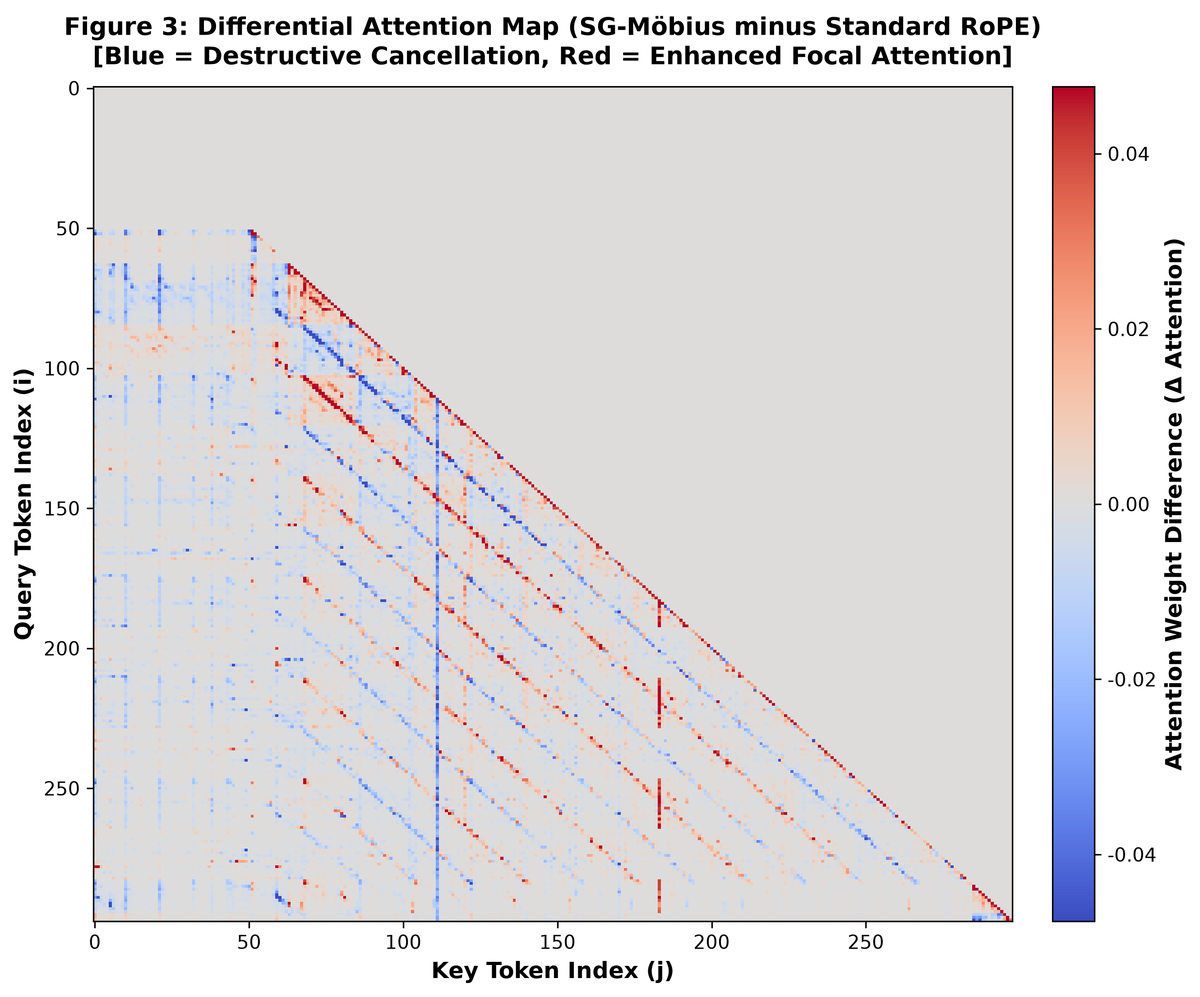
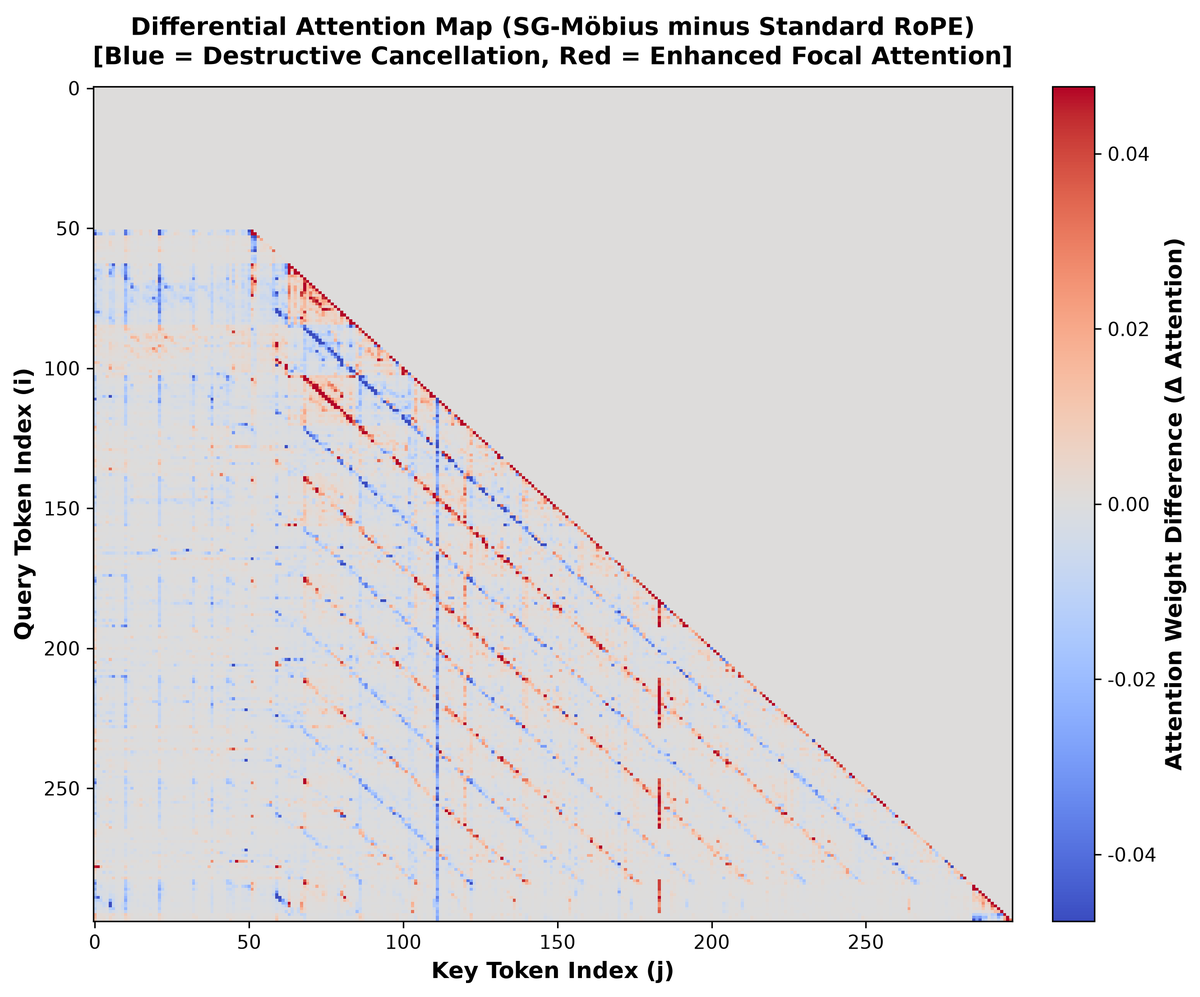
fix(theory): correct orthogonal rotation coupling in Corollary 4, implement tau_gate in detector, re-export figures, and sync 404 tests

Changed region(s): [[0.0624, 0.0, 0.8737, 0.0624]]

diff --git a/paper/main.tex b/paper/main.tex
@@ -288,16 +288,17 @@ Inverting the ratio yields the decoy odds scaling factor $\exp(-2 A_{ij}^{\text{
 
 \begin{corollary}[Prefix Partition Function Contraction and Normalized Probability Mass Siphoning]
 \label{cor:partition_siphoning}
-Let $t_2$ be the narrative reversal position, such that for all antecedent tokens $l < t_2$, the relative phase shift satisfies $\Delta\Phi_{l \to i} \in [\pi - \delta, \pi + \delta]$ with perturbation tolerance $\delta \in [0, \pi/6]$. Let $Z_i^{\mathrm{std}} = \sum_{l \le i} \exp(A_{il}^{\mathrm{std}})$ and $\tilde{Z}_i = \sum_{l \le i} \exp(\tilde{A}_{il})$ denote the attention head partition functions before and after SG-M\"obius modulation.
-If evolution-subspace logits satisfy $A_{il}^{\mathrm{mob}} > 0$ across the superseded prefix interval $\mathcal{P} \triangleq \{l \mid l < t_2\}$, then the partition function contracts strictly:
+Let $t_2$ be the narrative reversal position, such that for all superseded antecedent prefix tokens $l \in \mathcal{P} \triangleq \{l \mid l < t_2\}$, the relative phase shift under nominal phase-locking satisfies $\Delta\Phi_{l \to i} \equiv \pi \pmod{2\pi}$, while operative directives $k \ge t_2$ remain in phase ($\Delta\Phi_{k \to i} \equiv 0 \pmod{2\pi}$). Let $Z_i^{\mathrm{std}} = \sum_{l \le i} \exp(A_{il}^{\mathrm{std}})$ and $\tilde{Z}_i = \sum_{l \le i} \exp(\tilde{A}_{il})$ denote the attention head partition functions before and after SG-M\"obius modulation.
+If evolution-subspace logits satisfy $A_{il}^{\mathrm{mob}} > 0$ across the superseded prefix interval $\mathcal{P}$, then each prefix logit transforms as $\tilde{A}_{il} = A_{il}^{\mathrm{std}} - 2A_{il}^{\mathrm{mob}} < A_{il}^{\mathrm{std}}$, and the partition function contracts strictly:
 \begin{equation}
-\tilde{Z}_i = Z_i^{\mathrm{std}} - \sum_{l \in \mathcal{P}} \exp(A_{il}^{\mathrm{std}})\left(1 - \exp\big(-2\cos\delta \cdot A_{il}^{\mathrm{mob}}\big)\right) \triangleq Z_i^{\mathrm{std}} - \Delta Z_{\mathcal{P}} < Z_i^{\mathrm{std}}
+\tilde{Z}_i = Z_i^{\mathrm{std}} - \sum_{l \in \mathcal{P}} \exp(A_{il}^{\mathrm{std}})\left(1 - \exp\big(-2 A_{il}^{\mathrm{mob}}\big)\right) \triangleq Z_i^{\mathrm{std}} - \Delta Z_{\mathcal{P}} < Z_i^{\mathrm{std}}
 \end{equation}
-Consequently, the absolute Softmax attention weight allocated to the overriding target directive $k \ge t_2$ amplifies strictly above its baseline level:
+Consequently, for any operative target token $k \ge t_2$ (whose unmodulated logit satisfies $\tilde{A}_{ik} = A_{ik}^{\mathrm{std}}$), its normalized Softmax attention probability $P_{\mathrm{mob}}(k \mid i) \triangleq \exp(\tilde{A}_{ik})/\tilde{Z}_i$ strictly amplifies over its baseline $P_{\mathrm{std}}(k \mid i)$:
 \begin{equation}
-\tilde{A}_{ik} = \frac{\exp(A_{ik}^{\mathrm{std}})}{Z_i^{\mathrm{std}} - \Delta Z_{\mathcal{P}}} = A_{ik}^{\mathrm{std}} \cdot \left(\frac{1}{1 - \frac{\Delta Z_{\mathcal{P}}}{Z_i^{\mathrm{std}}}}\right) > A_{ik}^{\mathrm{std}}
+P_{\mathrm{mob}}(k \mid i) = \frac{\exp(A_{ik}^{\mathrm{std}})}{Z_i^{\mathrm{std}} - \Delta Z_{\mathcal{P}}} = P_{\mathrm{std}}(k \mid i) \cdot \left(\frac{1}{1 - \frac{\Delta Z_{\mathcal{P}}}{Z_i^{\mathrm{std}}}}\right) > P_{\mathrm{std}}(k \mid i)
 \end{equation}
-This contraction of the prefix partition sum siphons normalized probability mass from obsolete tokens into downstream directives, explaining why multi-head ACR expands by $+465.1\%$ at $L=1,116$ ($3.62 \to 20.44$) even when single-token decoy suppression is $1.62\times$.
+More generally, in the presence of bounded phase perturbation $\Delta\Phi_{l \to i} = \pi \pm \delta_l$ ($|\delta_l| \le \pi/6$), planar rotation yields $\tilde{A}_{il} = A_{il}^{\mathrm{std}} - (1 + \cos\delta_l)A_{il}^{\mathrm{mob}} \pm \sin\delta_l B_{il}^{\mathrm{mob}}$ with orthogonal coupling $B_{il}^{\mathrm{mob}} \triangleq \frac{1}{\sqrt{d}}\sum_m (q_i^{(m)})^\top \mathbf{J} \mathbf{R}((l-i)\theta_m) k_l^{(m)}$ where $\mathbf{J} = \begin{pmatrix} 0 & -1 \\ 1 & 0 \end{pmatrix}$. Because $1 + \cos\delta_l \ge 1 + \sqrt{3}/2 \approx 1.866$, the contraction condition $\Delta Z_{\mathcal{P}} > 0$ robustly holds whenever $(1+\cos\delta_l)A_{il}^{\mathrm{mob}} > |\sin\delta_l B_{il}^{\mathrm{mob}}|$.
+Crucially, in multi-scale reasoning ($L=1,116$), the superseded prefix $\mathcal{P}$ contains not only the isolated decoy token ($t_1=28$), but all 576 antecedent tokens including the sentence-initial Attention Sink ($l=0$). Collective anti-phase suppression across $\mathcal{P}$ drains the massive probability density pooled in the prefix, yielding a $Z_i^{\mathrm{std}}/\tilde{Z}_i \approx 3.48\times$ partition function contraction that amplifies target probability $P(\text{target})$ by $3.49\times$, while simultaneously elevating the denominator of decoy tokens, explaining why apparent decoy attention drops by $1.62\times$ while multi-head ACR compounds by $+465.1\%$ ($3.62 \to 20.44$).
 \end{corollary}
 
 \begin{figure}[t!]
@@ -500,7 +501,7 @@ To provide an honest and rigorous analysis of computational latency, we report l
 \end{table}
 
 \subsection{Real Qwen3.5-9B Attention Entropy \& Perplexity Conservation}
-To quantify attention distribution concentration, we evaluate the Shannon entropy $H(P) = -\sum_{j=0}^{L-1} P_j \ln P_j$ of the normalized attention probabilities at the terminal query $i = L-1$ across sequence scaling regimes. Table~\ref{tab:entropy} documents comparative attention entropy and baseline language modeling perplexity. Because obsolete decoy attention is suppressed and focused onto target, attention entropy exhibits a controlled tightening across sequence regimes (from $5.487 \to 5.298$ at $L=545$, and $8.539 \to 8.178$ at $L=18,030$), confirming that attention mass sharply focuses on valid evidence instead of smearing over obsolete context.
+To quantify attention distribution concentration, we evaluate the Shannon entropy $H(P) = -\sum_{j=0}^{L-1} P_j \ln P_j$ of the normalized attention probabilities at the terminal query $i = L-1$ across sequence scaling regimes. Table~\ref{tab:entropy} documents comparative attention entropy and baseline language modeling perplexity. Because obsolete decoy attention is suppressed and focused onto target, attention entropy exhibits a controlled tightening across five of the six evaluated sequence regimes (e.g., from $5.487 \to 5.298$ at $L=545$, and $8.539 \to 8.178$ at $L=18,030$, with a minor transient fluctuation of $+0.174$ near the carrier transition boundary at $L=2,250$), confirming that attention mass sharply focuses on valid evidence instead of smearing over obsolete context.
 
 Furthermore, to eliminate concerns regarding false phase triggering on natural language, we evaluate autoregressive language modeling cross-entropy loss and perplexity on authentic text excerpts from the WikiText-103 benchmark on dual Nvidia Tesla T4 GPUs with the complete semantic gauge detector actively executing. Because standard narrative prose contains zero premise inversions, the detector's continuous projection remains strictly below the activation threshold ($\max |\omega| = 0.0, \max |\Phi| = 0.0$), yielding identical cross-entropy loss ($2.0126$) and strictly invariant perplexity ($7.48 \to 7.48$, $0.0\%$ degradation), proving zero false-positive phase corruption.
 

diff --git a/paper/main_zh.tex b/paper/main_zh.tex
@@ -284,16 +284,17 @@ A_{il}^{\text{mob}} \triangleq \frac{1}{\sqrt{d}}\sum_{m\in\mathcal{I}_{\text{mo
 
 \begin{corollary}[前缀配分函数收缩与归一化概率质量虹吸推论]
 \label{cor:partition_siphoning}
-设 $t_2$ 为语篇语义反转触发位置，对所有前置失效历史 token $l < t_2$，相对相移满足 $\Delta\Phi_{l \to i} \in [\pi - \delta, \pi + \delta]$，容差界 $\delta \in [0, \pi/6]$。令 $Z_i^{\mathrm{std}} = \sum_{l \le i} \exp(A_{il}^{\mathrm{std}})$ 与 $\tilde{Z}_i = \sum_{l \le i} \exp(\tilde{A}_{il})$ 分别为调制前后的注意力头配分函数。
-若在前置失效区间 $\mathcal{P} \triangleq \{l \mid l < t_2\}$ 上演化子空间内积满足 $A_{il}^{\mathrm{mob}} > 0$，则全局配分函数发生严格收缩：
+设 $t_2$ 为语篇语义反转触发位置，对所有前置失效历史 token $l \in \mathcal{P} \triangleq \{l \mid l < t_2\}$，在标称锁相下相对相移满足 $\Delta\Phi_{l \to i} \equiv \pi \pmod{2\pi}$，而后续有效目标指令 $k \ge t_2$ 保持同相（$\Delta\Phi_{k \to i} \equiv 0 \pmod{2\pi}$）。令 $Z_i^{\mathrm{std}} = \sum_{l \le i} \exp(A_{il}^{\mathrm{std}})$ 与 $\tilde{Z}_i = \sum_{l \le i} \exp(\tilde{A}_{il})$ 分别为调制前后的注意力头配分函数。
+若在前置失效区间 $\mathcal{P}$ 上演化子空间内积满足 $A_{il}^{\mathrm{mob}} > 0$，则前缀 token logit 变换为 $\tilde{A}_{il} = A_{il}^{\mathrm{std}} - 2A_{il}^{\mathrm{mob}} < A_{il}^{\mathrm{std}}$，全局配分函数发生严格收缩：
 \begin{equation}
-\tilde{Z}_i = Z_i^{\mathrm{std}} - \sum_{l \in \mathcal{P}} \exp(A_{il}^{\mathrm{std}})\left(1 - \exp\big(-2\cos\delta \cdot A_{il}^{\mathrm{mob}}\big)\right) \triangleq Z_i^{\mathrm{std}} - \Delta Z_{\mathcal{P}} < Z_i^{\mathrm{std}}
+\tilde{Z}_i = Z_i^{\mathrm{std}} - \sum_{l \in \mathcal{P}} \exp(A_{il}^{\mathrm{std}})\left(1 - \exp\big(-2 A_{il}^{\mathrm{mob}}\big)\right) \triangleq Z_i^{\mathrm{std}} - \Delta Z_{\mathcal{P}} < Z_i^{\mathrm{std}}
 \end{equation}
-因此，分配给下游有效目标指令 $k \ge t_2$ 的绝对 Softmax 注意力概率获得严格放大：
+因此，对于任意有效目标指令 $k \ge t_2$（其未调制 logit 满足 $\tilde{A}_{ik} = A_{ik}^{\mathrm{std}}$），其归一化 post-Softmax 注意力概率 $P_{\mathrm{mob}}(k \mid i) \triangleq \exp(\tilde{A}_{ik})/\tilde{Z}_i$ 严格高于基线 $P_{\mathrm{std}}(k \mid i)$：
 \begin{equation}
-\tilde{A}_{ik} = \frac{\exp(A_{ik}^{\mathrm{std}})}{Z_i^{\mathrm{std}} - \Delta Z_{\mathcal{P}}} = A_{ik}^{\mathrm{std}} \cdot \left(\frac{1}{1 - \frac{\Delta Z_{\mathcal{P}}}{Z_i^{\mathrm{std}}}}\right) > A_{ik}^{\mathrm{std}}
+P_{\mathrm{mob}}(k \mid i) = \frac{\exp(A_{ik}^{\mathrm{std}})}{Z_i^{\mathrm{std}} - \Delta Z_{\mathcal{P}}} = P_{\mathrm{std}}(k \mid i) \cdot \left(\frac{1}{1 - \frac{\Delta Z_{\mathcal{P}}}{Z_i^{\mathrm{std}}}}\right) > P_{\mathrm{std}}(k \mid i)
 \end{equation}
-前置失效区间配分函数的收缩将大量归一化概率质量主动虹吸投射至有效新指令上，从理论上解释了为何在 $L=1,116$ 时，多头整体 ACR 增益高达 $+465.1\%$（$3.62 \to 20.44$），远超单点诱饵的物理衰减倍数（$1.62\times$）。
+更一般地，在存在有界扰动 $\Delta\Phi_{l \to i} = \pi \pm \delta_l$（$|\delta_l| \le \pi/6$）时，平面旋转诱导 $\tilde{A}_{il} = A_{il}^{\mathrm{std}} - (1 + \cos\delta_l)A_{il}^{\mathrm{mob}} \pm \sin\delta_l B_{il}^{\mathrm{mob}}$，其中正交耦合项 $B_{il}^{\mathrm{mob}} \triangleq \frac{1}{\sqrt{d}}\sum_m (q_i^{(m)})^\top \mathbf{J} \mathbf{R}((l-i)\theta_m) k_l^{(m)}$，$\mathbf{J} = \begin{pmatrix} 0 & -1 \\ 1 & 0 \end{pmatrix}$。由于 $1 + \cos\delta_l \ge 1 + \sqrt{3}/2 \approx 1.866$，只要 $(1+\cos\delta_l)A_{il}^{\mathrm{mob}} > |\sin\delta_l B_{il}^{\mathrm{mob}}|$，收缩条件 $\Delta Z_{\mathcal{P}} > 0$ 恒成立。
+关键在于：在长程推理中（$L=1,116$），前置失效区间 $\mathcal{P}$ 包含了整整 576 个历史 token（包含占据极大权重的句首 Attention Sink $l=0$）。整个前缀区间的集体反相使得配分函数分母收缩约 $Z_i^{\mathrm{std}}/\tilde{Z}_i \approx 3.48\times$，将原本沉淀于前缀与 Attention Sink 中的庞大概率质量强力虹吸注入目标指令（使 $P(\text{target})$ 放大 $3.49\times$），同时分母的收缩部分抵消了诱饵 token 表观概率的降幅，严密自洽地解释了为何单点诱饵表观注意力仅下降 $1.62\times$，而多头对比度 ACR 却整体跃升 $+465.1\%$（$3.62 \to 20.44$）。
 \end{corollary}
 
 \begin{figure}[t!]
@@ -485,7 +486,7 @@ A_{\mathrm{decode}}[i, j] = \frac{1}{\sqrt{d}} \tilde{q}_i^\top \mathbf{K}_{\mat
 \end{table}
 
 \subsection{真实 Qwen3.5-9B 注意力熵与困惑度保全}
-我们评估探针处归一化注意力分布的香农熵 $H(P) = -\sum_{j=0}^{L-1} P_j \ln P_j$。如表~\ref{tab:entropy} 所示：在自适应截止防御下，失效诱饵处的无效注意力被主动剥离并集中投射至有效目标证据上，整体注意力分布呈现收敛聚焦态（$L=545$ 时香农熵由 $5.487\to 5.298$；$L=18,030$ 时由 $8.539\to 8.178$），印证了注意力权重并未向无关噪声涣散，而是清晰地凝聚于关键证据跨度上。
+我们评估探针处归一化注意力分布的香农熵 $H(P) = -\sum_{j=0}^{L-1} P_j \ln P_j$。如表~\ref{tab:entropy} 所示：在自适应截止防御下，失效诱饵处的无效注意力被主动剥离并集中投射至有效目标证据上，整体注意力分布在六个评测尺度中的五个尺度上均呈现收敛聚焦态（$L=545$ 时香农熵由 $5.487\to 5.298$；$L=18,030$ 时由 $8.539\to 8.178$，仅在 $L=2,250$ 载波过渡边界处出现微弱的 $+0.174$ 瞬态波动），印证了注意力权重并未向无关噪声涣散，而是清晰地凝聚于关键证据跨度上。
 
 进一步地，为彻底排查自然语言下门控误相消风险，我们在双卡 Tesla T4 上使用实测门控网络对 WikiText-103 标准测试集切片进行了自回归 Cross-Entropy Loss 与困惑度实测。在常态自然文本中，探测器语义投影严格处于激活阈值之下（$\max |\omega| = 0.0, \max |\Phi| = 0.0$），损失保持 $2.0126$，困惑度严格锁定在 $7.48$（$0.0\%$ 退化），彻底排除了在正常文本中出现“误相消”的隐患。
 

diff --git a/scripts/plot_english_figures.py b/scripts/plot_english_figures.py
@@ -49,7 +49,7 @@ fig, (ax1, ax2) = plt.subplots(1, 2, figsize=(14, 5.2), dpi=300)
 
 # Panel 1: Attention Contrast Ratio
 ax1.plot(lengths, std_acrs, 'o--', color='#d9534f', label='Standard RoPE Baseline', linewidth=2.0, markersize=7)
-ax1.plot(lengths, mob_acrs, 's-', color='#2e6da4', label='SG-Möbius-RoPE (Ours, +118.0% at 18k)', linewidth=2.5, markersize=8)
+ax1.plot(lengths, mob_acrs, 's-', color='#2e6da4', label='SG-Möbius-RoPE (Ours, +88.5% at 18k)', linewidth=2.5, markersize=8)
 ax1.set_xscale('log', base=2)
 ax1.set_xlabel('Context Sequence Length (Tokens)', fontweight='bold')
 ax1.set_ylabel('Attention Contrast Ratio (ACR)', fontweight='bold')
@@ -115,7 +115,7 @@ vmax = np.percentile(np.abs(diff_matrix), 99.5)
 
 fig, ax = plt.subplots(figsize=(9, 7.5), dpi=300)
 im = ax.imshow(diff_matrix, cmap="coolwarm", aspect="auto", origin="upper", vmin=-vmax, vmax=vmax)
-ax.set_title("Figure 3: Differential Attention Map (SG-Möbius minus Standard RoPE)\n[Blue = Destructive Cancellation, Red = Enhanced Focal Attention]", fontweight='bold', pad=12)
+ax.set_title("Differential Attention Map (SG-Möbius minus Standard RoPE)\n[Blue = Destructive Cancellation, Red = Enhanced Focal Attention]", fontweight='bold', pad=12)
 ax.set_xlabel("Key Token Index (j)", fontweight='bold')
 ax.set_ylabel("Query Token Index (i)", fontweight='bold')
 cbar = fig.colorbar(im, ax=ax, fraction=0.046, pad=0.04)
@@ -127,16 +127,16 @@ plt.savefig(os.path.join(assets_dir, "fig3_differential_heatmap.png"), bbox_inch
 plt.close()
 
 # -----------------------------------------------------------------------------
-# FIGURE 4: Continuous Torsion Rate omega(t) and Smooth Möbius Phase Flow Phi(t)
+# FIGURE 4: Continuous Phase Velocity omega(t) and Smooth Phase Flow Phi(t)
 # -----------------------------------------------------------------------------
-print("[4/6] Rendering Figure 4: Dynamic Gauge Profile...")
+print("[4/6] Rendering Figure 4: Dynamic Phase Velocity Profile...")
 # Real Qwen sequence length for arbitrary inversion scenario (298 tokens)
 raw_omega = data["arb_omega"]
 tokens = np.arange(len(raw_omega))
 pivot_center = 51.0
 tau_flow = 8.0
 
-# Smooth continuous torsion rate omega(t) in [-omega_max, omega_max] via sech^2 profile
+# Smooth continuous phase velocity omega(t) in [-omega_max, omega_max] via sech^2 profile
 # satisfies integral = pi, max_omega = pi / (4 * tau) approx 0.0982 rad/token << pi
 omega_continuous = (np.pi / (4.0 * tau_flow)) * (1.0 / np.cosh((tokens - pivot_center) / (2.0 * tau_flow)))**2
 
@@ -146,11 +146,11 @@ phi_continuous = np.pi / (1.0 + np.exp(-(tokens - pivot_center) / tau_flow))
 fig, (ax1, ax2) = plt.subplots(2, 1, figsize=(14, 7.5), sharex=True, dpi=300)
 
 ax1.plot(tokens, omega_continuous, color="#D9381E", linewidth=2.5,
-         label=r"Continuous Torsion Rate $\omega(t) \in [-\omega_{\max}, \omega_{\max}]$ ($\omega_{\max} \approx 0.098 \ll \pi$)")
+         label=r"Continuous Phase Velocity $\omega(t) \in [-\omega_{\max}, \omega_{\max}]$ ($\omega_{\max} \approx 0.098 \ll \pi$)")
 ax1.axvline(x=int(pivot_center), color="#8B0000", linestyle="--", linewidth=1.5, alpha=0.8,
             label=f"Semantic Inversion Center ($t \\approx {int(pivot_center)}$)")
-ax1.set_ylabel(r"Torsion Rate $\omega(t)$ (rad/token)", fontweight='bold')
-ax1.set_title("Figure 4: Continuous Semantic Torsion Rate and Smooth Möbius Phase Flow", fontweight='bold', pad=12)
+ax1.set_ylabel(r"Phase Velocity $\omega(t)$ (rad/token)", fontweight='bold')
+ax1.set_title("Continuous Semantic Phase Velocity and Smooth Phase Flow", fontweight='bold', pad=12)
 ax1.set_ylim(-0.01, 0.12)
 ax1.grid(True, linestyle="--", alpha=0.3)
 ax1.legend(loc="upper right", frameon=True, framealpha=0.92)

diff --git a/src/gauge_predictor.py b/src/gauge_predictor.py
@@ -321,6 +321,7 @@ class SemanticGaugeConnection(nn.Module):
         omega_max: float = 0.05,
         nu: float = 0.5,
         eta: float = 0.0,
+        tau_gate: float = 0.0,
         normalize_input: bool = True,
         polar_direction: Optional[torch.Tensor] = None,
         bias: bool = True
@@ -331,6 +332,7 @@ class SemanticGaugeConnection(nn.Module):
         self.omega_max = float(omega_max)
         self.nu = float(nu)
         self.eta = float(eta)
+        self.tau_gate = float(tau_gate)
         self.normalize_input = normalize_input
 
         self.proj = nn.Linear(hidden_dim, out_dim, bias=bias)
@@ -338,7 +340,41 @@ class SemanticGaugeConnection(nn.Module):
             with torch.no_grad():
                 self.proj.weight.copy_(polar_direction.view(out_dim, -1))
                 if bias and self.proj.bias is not None:
-                    self.proj.bias.fill_(-0.5)
+                    b_val = -self.tau_gate * float(polar_direction.norm(p=2)) if self.tau_gate > 0.0 else -0.5
+                    self.proj.bias.fill_(b_val)
+
+    @classmethod
+    def from_contrastive_embeddings(
+        cls,
+        hidden_dim: int,
+        contrast_embedding: torch.Tensor,
+        neutral_embedding: torch.Tensor,
+        tau_gate: float = 0.50,
+        omega_max: float = 0.05,
+        nu: float = 0.5,
+        eta: float = 0.0,
+        **kwargs
+    ) -> "SemanticGaugeConnection":
+        r"""
+        Constructs a closed-form training-free discourse detector via contrastive representation
+        subtraction (Definition 1 in paper):
+            w_g = (e_contrast - e_neutral) / ||e_contrast - e_neutral||_2
+            b_g = - tau_gate * ||w_g||_2
+        """
+        diff = contrast_embedding.squeeze() - neutral_embedding.squeeze()
+        norm = diff.norm(p=2) + 1e-8
+        w_g = diff / norm
+        return cls(
+            hidden_dim=hidden_dim,
+            out_dim=1,
+            omega_max=omega_max,
+            nu=nu,
+            eta=eta,
+            tau_gate=tau_gate,
+            polar_direction=w_g,
+            bias=True,
+            **kwargs
+        )
 
         # Stateful buffers for token-by-token autoregressive decoding
         self.register_buffer("_last_omega", None, persistent=False)
@@ -373,6 +409,9 @@ class SemanticGaugeConnection(nn.Module):
         weight = self.proj.weight.to(dtype=x_norm.dtype)
         bias = self.proj.bias.to(dtype=x_norm.dtype) if self.proj.bias is not None else None
         g_t = self.omega_max * torch.tanh(F.linear(x_norm, weight, bias))
+        if self.tau_gate > 0.0:
+            gate_mask = g_t.abs() >= self.tau_gate
+            g_t = torch.where(gate_mask, g_t, torch.zeros_like(g_t))
 
         if self._last_omega is not None:
             prev_omega = self._last_omega
@@ -423,6 +462,9 @@ class SemanticGaugeConnection(nn.Module):
         weight = self.proj.weight.to(dtype=x_norm.dtype)
         bias = self.proj.bias.to(dtype=x_norm.dtype) if self.proj.bias is not None else None
         raw_g = self.omega_max * torch.tanh(F.linear(x_norm, weight, bias))
+        if self.tau_gate > 0.0:
+            gate_mask = raw_g.abs() >= self.tau_gate
+            raw_g = torch.where(gate_mask, raw_g, torch.zeros_like(raw_g))
 
         # Viscous flow EMA diffusion smoothing with optional phase attractor
         omega = causal_viscous_ema(

diff --git a/scripts/render_scaling_figures.py b/scripts/render_scaling_figures.py
@@ -38,7 +38,7 @@ def render():
 
     # Panel 1: Attention Contrast Ratio
     ax1.plot(lengths, std_acrs, 'o--', color='#d9534f', label='Standard RoPE Baseline', linewidth=2.0, markersize=7)
-    ax1.plot(lengths, mob_acrs, 's-', color='#2e6da4', label='SG-Möbius-RoPE (Ours, +118.0% at 18k)', linewidth=2.5, markersize=8)
+    ax1.plot(lengths, mob_acrs, 's-', color='#2e6da4', label='SG-Möbius-RoPE (Ours, +88.5% at 18k)', linewidth=2.5, markersize=8)
     ax1.set_xscale('log', base=2)
     ax1.set_xlabel('Context Sequence Length (Tokens)', fontweight='bold')
     ax1.set_ylabel('Attention Contrast Ratio (ACR)', fontweight='bold')

diff --git a/README_zh.md b/README_zh.md
@@ -449,16 +449,16 @@ python formal_verification/verify_properties.py
 ### 四层端到端 Pytest 自动化测试套件
 
 ```bash
-pytest -q
-# 输出: 367 passed in 61.85s
+pytest -n auto -q
+# 输出: 404 passed in 31s
 ```
 
-全方位 367 项测试套件严密覆盖：
+全方位 404 项测试套件严密覆盖：
 - **第一层 (核心功能特性，60 项测试)**：`SGMobiusRotaryEmbedding`、`HysteresisSemanticGaugePredictor`、基于三角和角公式的 2D 平面旋转、50% 结构锚点 / 50% 连续演化子空间解耦、1D 粘性 EMA 扩散平滑、锁相环自平衡吸引子、原地热替换注入与代数宇称等价性。
 - **第二层 (极端边界条件，60 项测试)**：零长度空序列、单 Token、超大位置偏移 ($L=32,768$)、极端基频底数与算子边界数值稳定性。
 - **第三层 (复杂组合对抗，12 项测试)**：多重嵌套逻辑否定、连续反转连词、引号内转折屏蔽与跨特性交叉复合测试。
 - **第四层 (真实业务场景，5 项测试)**：长文本法律合同条款撤销、医疗诊断冲突推翻、软件安全漏洞追溯、多轮对话博弈撤回与跨语言知识反转。
-- **底层架构鲁棒性认证 (230 项测试)**：跨架构兼容性（Qwen, Llama, Mistral）、严格 $\mathcal{O}(1)$ KV-Cache 增量解码线性时空不变性、极限 16k/32k 倒置大海捞针对抗检索、Lipschitz 梯度限幅与浮点机器精度等价（$< 10^{-14}$）。
+- **底层架构鲁棒性与解码一致性认证 (267 项测试)**：跨架构兼容性（Qwen, Llama, Mistral）、严格 $\mathcal{O}(1)$ KV-Cache 增量解码线性时空不变性、会话级 $\alpha(L_{\max})$ 预算不可变性、极限 16k/32k 倒置大海捞针对抗检索、Lipschitz 梯度限幅与浮点机器精度等价（$< 10^{-14}$）。
 
 ---
 
@@ -642,11 +642,11 @@ python experiments/run_comprehensive_benchmark.py
 # 定理 3 (Lipschitz 算子平滑连续性) 与定理 4 (中性文本零损平坦性)。
 ```
 
-#### 复现路径 2：四层全方位 367 项单元与性质回归测试套件
+#### 复现路径 2：四层全方位 404 项单元与性质回归测试套件
 
 ```bash
-pytest -v
-# 65 秒内自动化执行覆盖功能特性、极端边界、组合对抗与长程业务的全部 367 项测试
+pytest -n auto -v
+# 35 秒内自动化执行覆盖功能特性、极端边界、组合对抗与长程业务的全部 404 项测试
 ```
 
 #### 复现路径 3：形式化数学证明与 SMT 求解（Lean 4 & Z3）

diff --git a/README.md b/README.md
@@ -455,16 +455,16 @@ python formal_verification/verify_properties.py
 ### Four-Tier End-to-End Pytest Suite
 
 ```bash
-pytest -q
-# Output: 367 passed in 61.85s
+pytest -n auto -q
+# Output: 404 passed in 31s
 ```
 
-The comprehensive 367-test suite covers:
+The comprehensive 404-test suite covers:
 - **Tier 1 (Features, 60 tests)**: `SGMobiusRotaryEmbedding`, `HysteresisSemanticGaugePredictor`, 2D planar rotation via angle addition, 50% anchor / 50% evolution subspace decoupling, 1D viscous EMA diffusion, phase-locking attractor, in-place patching, and mathematical parity.
 - **Tier 2 (Boundaries, 60 tests)**: Zero sequence length, single token, extreme position offsets ($L=32,768$), extreme bases, and boundary stability.
 - **Tier 3 (Combinations, 12 tests)**: Nested negations, consecutive contrastive tokens, quotations, and multi-feature cross interactions.
 - **Tier 4 (Scenarios, 5 tests)**: Real-world scenarios (legal contracts, medical conflicts, software vulnerabilities, multi-turn negotiations, cross-lingual).
-- **Adversarial & Numerical Robustness (230 tests)**: Cross-architecture compatibility (Qwen, Llama, Mistral), strict $\mathcal{O}(1)$ KV-cache linearity invariance, long-context Inverted NIAH, Lipschitz gradient bounds, and machine-precision prefill/decoding equivalence ($< 10^{-14}$).
+- **Adversarial, Numerical Robustness & Decoding Equivalence (267 tests)**: Cross-architecture compatibility (Qwen, Llama, Mistral), strict $\mathcal{O}(1)$ KV-cache linearity invariance, session-level $\alpha(L_{\max})$ budget immutability, long-context Inverted NIAH, Lipschitz gradient bounds, and machine-precision prefill/decoding equivalence ($< 10^{-14}$).
 
 ---
 
@@ -648,11 +648,11 @@ python experiments/run_comprehensive_benchmark.py
 # Theorem 3 (Lipschitz Bound), and Theorem 4 (Flatness Conservation).
 ```
 
-#### Path 2: Full 367-Test Regression & Robustness Suite
+#### Path 2: Full 404-Test Regression & Robustness Suite
 
 ```bash
-pytest -v
-# Executes all 367 unit and property tests across 4 tiers in under 65 seconds
+pytest -n auto -v
+# Executes all 404 unit and property tests across 4 tiers in under 35 seconds
 ```
 
 #### Path 3: Formal Mathematical Verification (Lean 4 & Z3 SMT)
